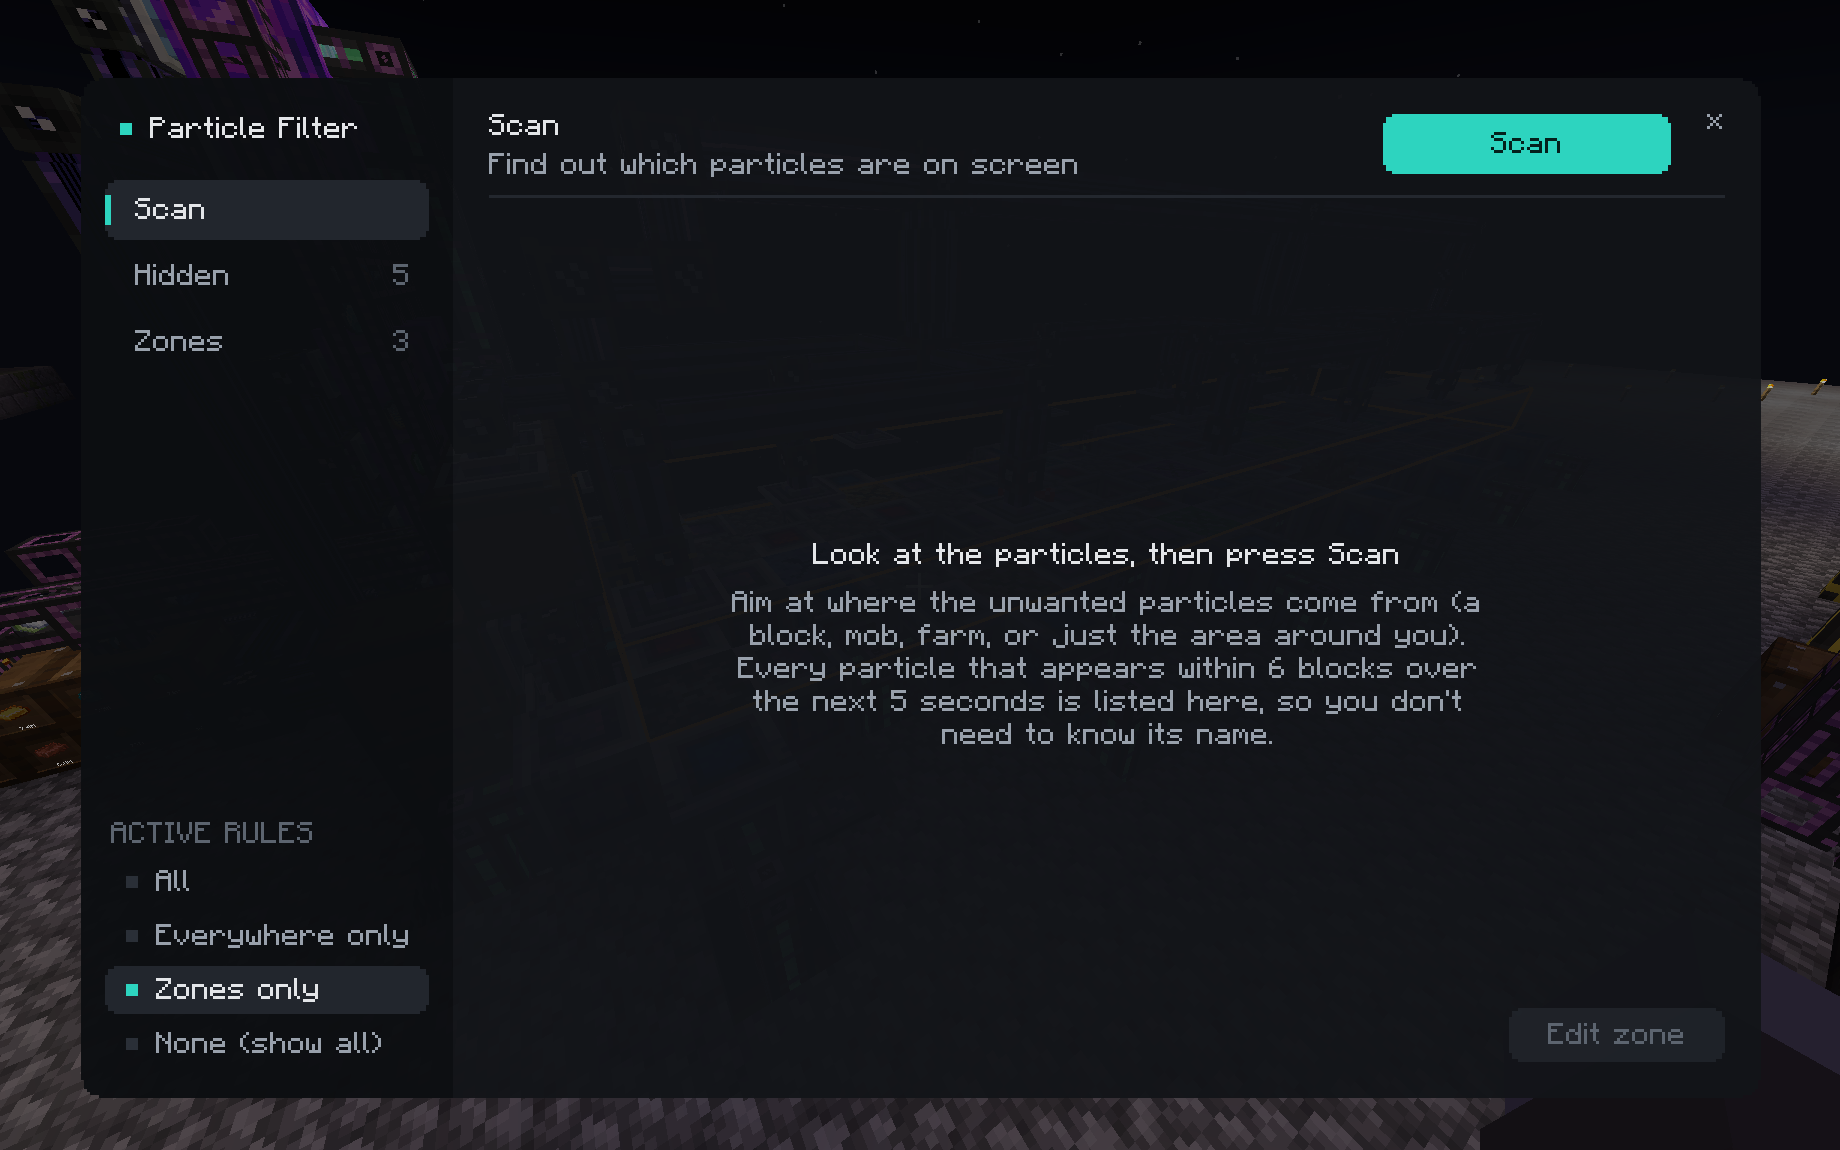
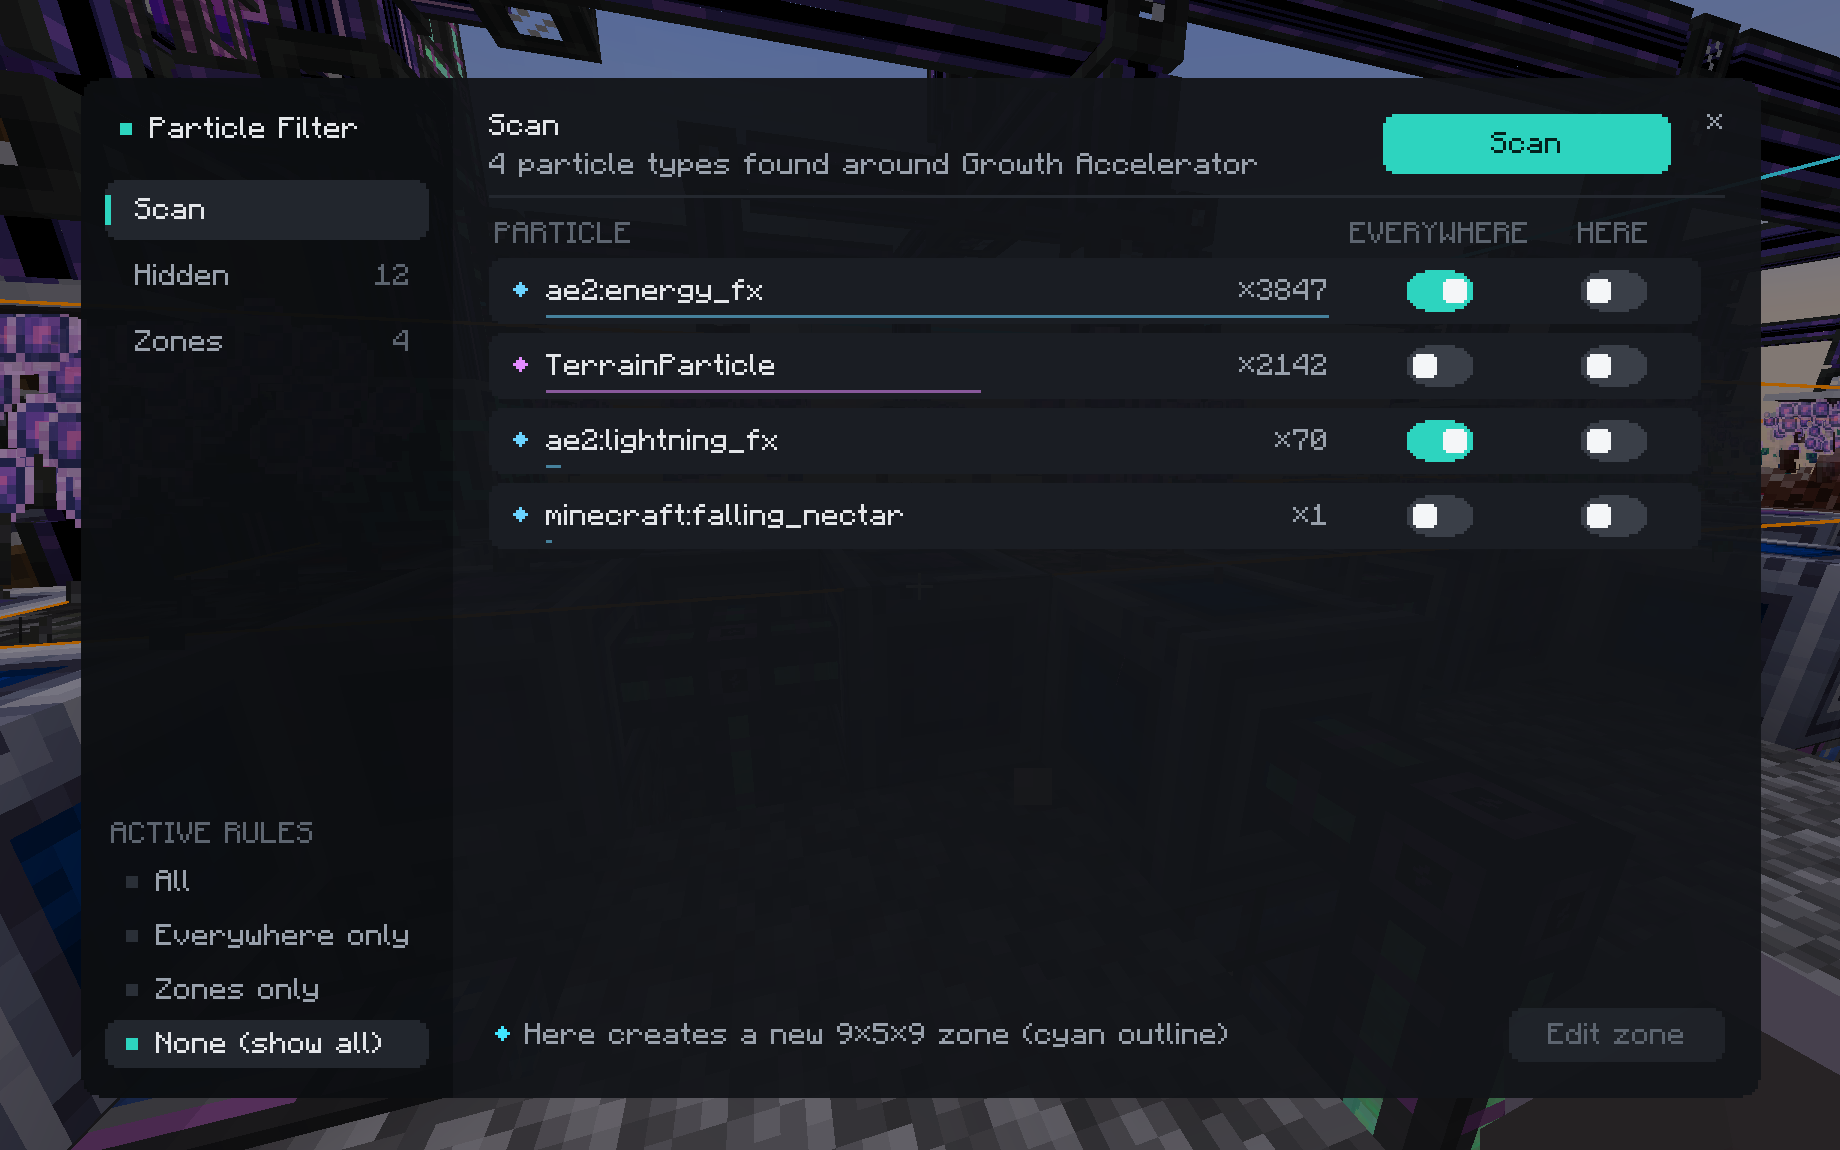
Use a Scan screenshot with real results in the README
Replaces the empty-state Scan screenshot with one showing scan results
around an AE2 Growth Accelerator. Captured by Minihercules317; cropped
by Claude.

diff --git a/README.md b/README.md
@@ -28,10 +28,10 @@ You don't need to know what a particle is called: a built-in scan finds it for y
 |---|---|
 | ![The Hidden page, grouping hidden particles by zone](docs/images/2-hidden.png) | ![The Zones page, listing each zone's size, position and how many particles it hides](docs/images/3-zones.png) |
 | **Hidden:** everything hidden, grouped by where it applies | **Zones:** each zone's size, position and hidden count |
-| ![The Scan page before a scan, explaining how to use it](docs/images/4-scan.png) | ![Zone outlines drawn over a machine floor in the world](docs/images/5-zone-outline.png) |
-| **Scan:** aim at the particles and press Scan to list them | **Zone outlines** can stay visible while you play |
+| ![Scan results at a growth accelerator: ae2:energy_fx, TerrainParticle, ae2:lightning_fx and minecraft:falling_nectar with how often each appeared](docs/images/4-scan.png) | ![Zone outlines drawn over a machine floor in the world](docs/images/5-zone-outline.png) |
+| **Scan:** lists every particle near what you're looking at, with counts | **Zone outlines** can stay visible while you play |
 
-Screenshots are from All the Mods 10: To the Sky, with Active rules set to *Zones only*.
+Screenshots are from All the Mods 10: To the Sky.
 
 ## Features
 
